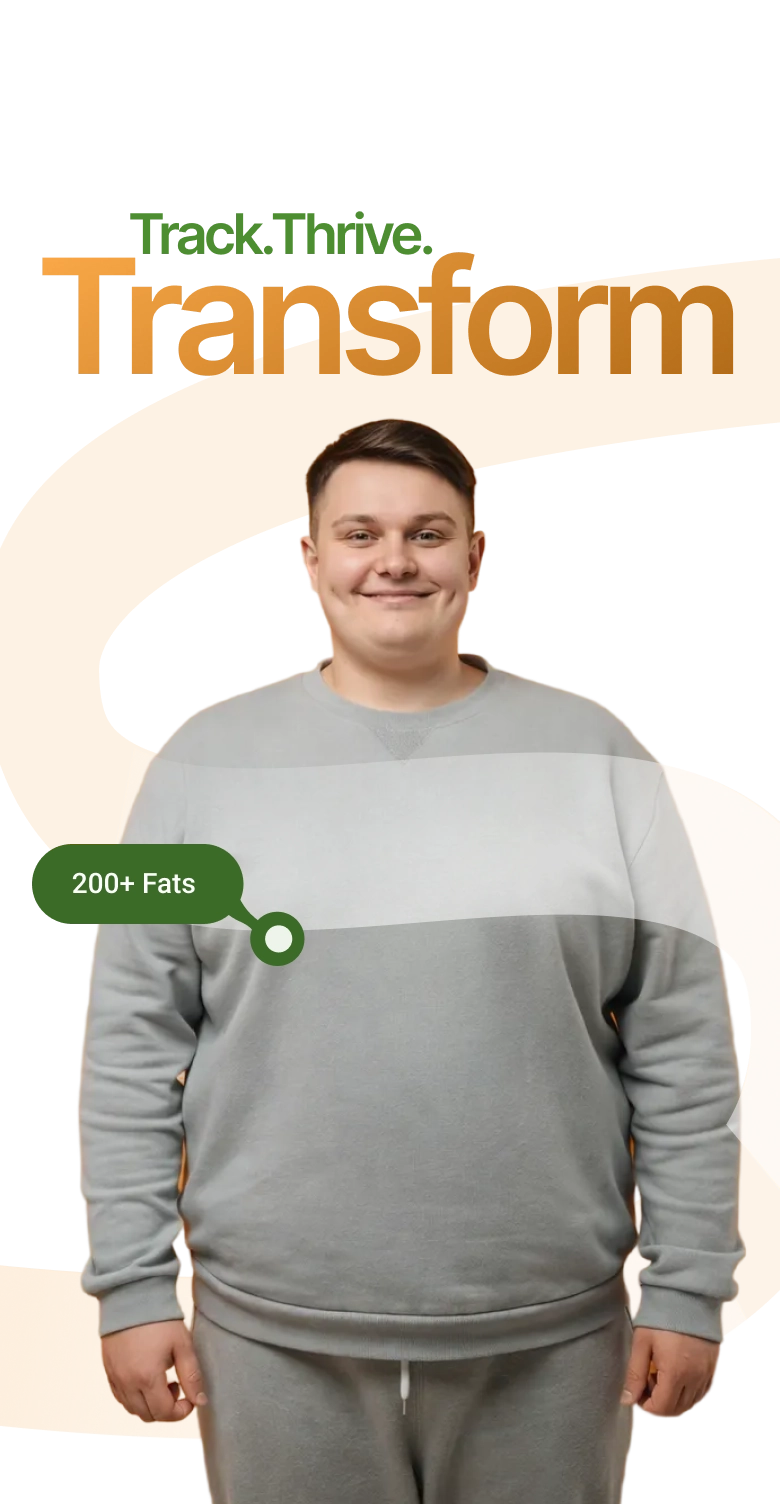
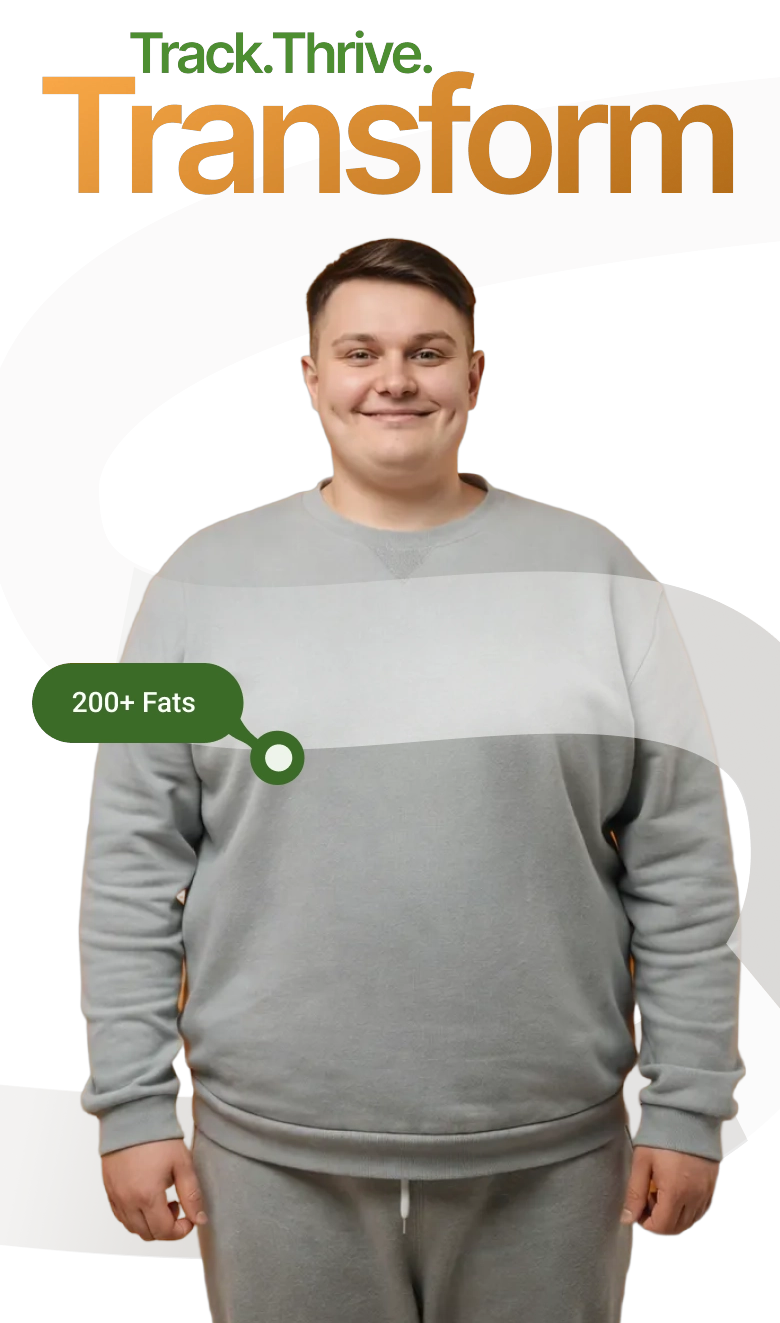
hero sections images.

diff --git a/app/[locale]/(landingPage)/_components/home/Hero.tsx b/app/[locale]/(landingPage)/_components/home/Hero.tsx
@@ -14,13 +14,13 @@ const Hero = () => {
   const locale = useLocale();
 
   return (
-    <section className="relative overflow-hidden bg-surface md:pt-15 xl:pt-20">
+    <section className="relative overflow-hidden bg-surface pt-20 max-h-200 md:max-h-265">
       <motion.div
         initial={{ opacity: 0, y: 30 }}
         whileInView={{ opacity: 1, y: 0 }}
         viewport={{ once: true }}
         transition={{ duration: 0.7, ease: "easeInOut" }}
-        className="relative w-full overflow-hidden aspect-780/1504 md:aspect-15.5/10"
+        className="relative w-full overflow-hidden aspect-1/1.5 md:aspect-13/10"
       >
         <div className="h-full md:hidden">
           <ImageComparison className="h-full w-full" enableHover>
